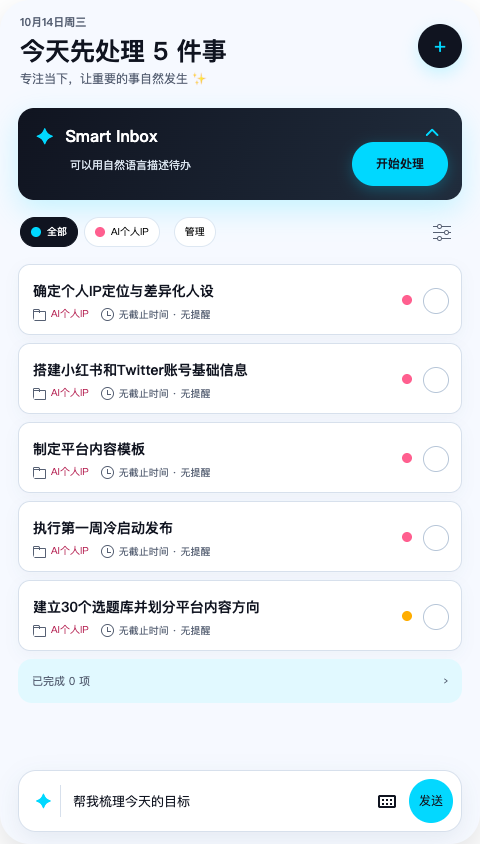
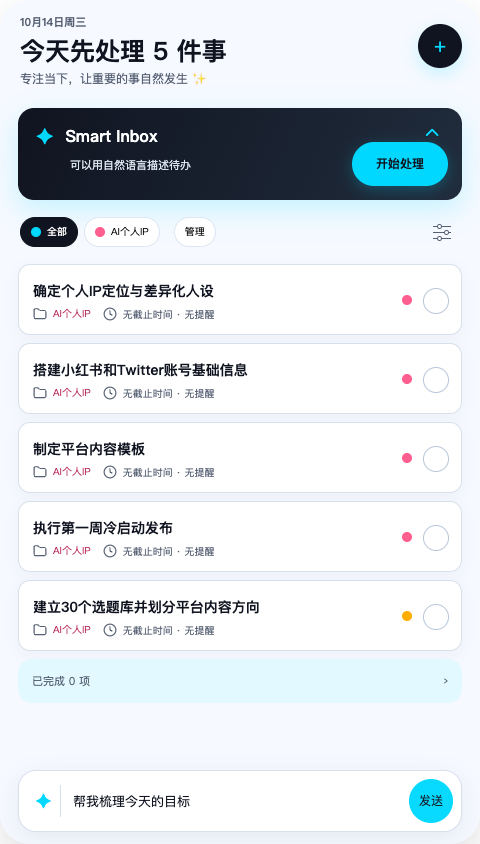
fix(ui): 优化浮层自适应布局并替换首页图标

diff --git a/tests/e2e/mobile-refresh.spec.ts b/tests/e2e/mobile-refresh.spec.ts
@@ -43,6 +43,10 @@ test('首页直接输入、计划编辑返回及正式布局', async ({ page }, 
   await taskEditor.getByRole('button', { name: '关闭待办编辑' }).click();
   await expect(input).toBeVisible();
   await expect(page.getByRole('button', { name: '打开语音输入' })).toBeVisible();
+  await page.screenshot({
+    path: 'docs/quality/screenshots/refresh-home-idle.png',
+    animations: 'disabled',
+  });
   await input.fill('帮我梳理今天的目标');
   await expect(page.getByRole('button', { name: '打开语音输入' })).toHaveCount(0);
   for (const size of [
@@ -70,17 +74,44 @@ test('首页直接输入、计划编辑返回及正式布局', async ({ page }, 
     path: 'docs/quality/screenshots/refresh-plan.png',
     animations: 'disabled',
   });
-  await plan.getByRole('button', { name: '编辑整理需求清单' }).click();
+  const close = plan.getByRole('button', { name: '关闭 Agent 草稿' });
+  await expect(close).toHaveCSS('border-top-width', '0px');
+  expect(await close.evaluate((node) => getComputedStyle(node, '::after').display)).toBe('none');
+  expect((await plan.boundingBox())!.height).toBeLessThan(600);
+  const edit = plan.getByRole('button', { name: '编辑整理需求清单' });
+  await expect(edit).toHaveCSS('align-items', 'center');
+  await edit.click();
   const editor = page.getByRole('dialog', { name: '编辑草稿', exact: true });
   await expect(editor).toBeVisible();
   await expect(editor.getByRole('button', { name: '创建', exact: false })).toHaveCount(0);
   await expect(editor.getByRole('button', { name: '删除此项' })).toHaveCount(0);
+  const gap = await editor.locator('.agentProposalEditorActions').evaluate((node) => {
+    const lastField = node.parentElement!.querySelector('.dateTimePickerField_reminderAt')!;
+    return node.getBoundingClientRect().top - lastField.getBoundingClientRect().bottom;
+  });
+  expect(gap).toBeLessThan(48);
   await editor.getByLabel('计划项标题').locator('input').fill('未保存修改');
   await editor.getByRole('button', { name: '取消编辑计划项' }).click();
   await expect(plan).not.toContainText('未保存修改');
   await plan.getByRole('button', { name: '编辑整理需求清单' }).click();
   await editor.getByLabel('计划项标题').locator('input').fill('已保存修改');
-  await page.screenshot({ path: 'docs/quality/screenshots/refresh-draft-editor.png' });
+  await page.screenshot({
+    path: 'docs/quality/screenshots/refresh-draft-editor.png',
+    animations: 'disabled',
+  });
+  for (const size of [
+    { width: 320, height: 844 },
+    { width: 480, height: 844 },
+    { width: 390, height: 560 },
+  ]) {
+    await page.setViewportSize(size);
+    const bounds = await editor.boundingBox();
+    expect(bounds!.y).toBeGreaterThanOrEqual(0);
+    expect(bounds!.y + bounds!.height).toBeLessThanOrEqual(size.height);
+    await expect(editor.getByRole('button', { name: '保存此项' })).toBeInViewport();
+    await expect(page.locator('body')).toHaveJSProperty('scrollWidth', size.width);
+  }
+  await page.setViewportSize({ width: 390, height: 844 });
   await editor.getByRole('button', { name: '保存此项' }).click();
   await expect(plan).toBeVisible();
   await expect(plan).toContainText('已保存修改');

diff --git a/apps/client/src/components/production-screens.scss b/apps/client/src/components/production-screens.scss
@@ -474,7 +474,6 @@
   background: transparent;
   resize: none;
 }
-.homeKeyboard,
 .homeComposerAction {
   display: flex;
   align-items: center;
@@ -492,48 +491,23 @@
   color: var(--ei-ink);
   background: transparent;
 }
-.homeKeyboard {
-  font-size: 22px;
-}
 .homeComposerAction {
   border-radius: 50%;
   font-size: 12px;
   background: var(--ei-action);
   animation: composerActionIn 160ms cubic-bezier(0.2, 0, 0, 1);
 }
-.homeComposerAction::after,
-.homeKeyboard::after {
+.homeComposerAction::after {
   display: none;
 }
 .homeComposer_hasText {
   border-color: var(--ei-action);
 }
 .micIcon {
-  position: relative;
-  width: 10px;
-  height: 18px;
-  border: 2px solid currentColor;
-  border-radius: 8px;
-}
-.micIcon::before {
-  position: absolute;
-  content: '';
-  width: 16px;
-  height: 14px;
-  left: -5px;
-  top: 5px;
-  border: 2px solid currentColor;
-  border-top: 0;
-  border-radius: 0 0 10px 10px;
-}
-.micIcon::after {
-  position: absolute;
-  content: '';
-  width: 2px;
-  height: 5px;
+  width: 24px;
+  height: 24px;
   background: currentColor;
-  left: 2px;
-  top: 20px;
+  mask: url('../assets/lucide/mic.svg') center / contain no-repeat;
 }
 @keyframes composerActionIn {
   from {
@@ -708,7 +682,6 @@
 .slidersIcon > :nth-child(2)::after {
   left: 11px;
 }
-.homeKeyboard,
 .homeProjectOptions {
   --ei-press-bg: transparent;
   --ei-press-fg: var(--ei-muted);
@@ -724,59 +697,22 @@
 .prioritySegment[aria-pressed='true'] {
   --ei-press-bg: var(--ei-tint);
 }
-.homeKeyboard {
-  --ei-press-fg: var(--ei-ink);
-}
-.keyboardIcon {
-  width: 18px;
-  height: 13px;
-  border: 2px solid currentColor;
-  border-radius: 2px;
-  background: radial-gradient(currentColor 1px, transparent 1px) 1px 1px / 4px 4px;
-}
 .ei-task-row__details .ei-task-row__project,
 .ei-task-row__details .ei-task-row__meta {
   position: relative;
-  padding-left: 18px;
+  padding-left: 20px;
 }
-.ei-task-row__details .ei-task-row__project::before {
-  content: '';
-  position: absolute;
-  left: 0;
-  top: 5px;
-  width: 11px;
-  height: 8px;
-  border: 1px solid var(--ei-muted);
-  border-radius: 1px;
-}
-.ei-task-row__details .ei-task-row__project::after {
-  content: '';
-  position: absolute;
-  left: 0;
-  top: 3px;
-  width: 5px;
-  height: 3px;
-  border: 1px solid var(--ei-muted);
-  border-bottom: 0;
-  border-radius: 1px 2px 0 0;
-}
+.ei-task-row__details .ei-task-row__project::before,
 .ei-task-row__details .ei-task-row__meta::before {
   content: '';
   position: absolute;
   left: 0;
-  top: 2px;
-  width: 11px;
-  height: 11px;
-  border: 1px solid var(--ei-muted);
-  border-radius: 50%;
+  top: 1px;
+  width: 14px;
+  height: 14px;
+  background: var(--ei-muted);
+  mask: url('../assets/lucide/folder.svg') center / contain no-repeat;
 }
-.ei-task-row__details .ei-task-row__meta::after {
-  content: '';
-  position: absolute;
-  left: 6px;
-  top: 5px;
-  width: 3px;
-  height: 4px;
-  border-left: 1px solid var(--ei-muted);
-  border-bottom: 1px solid var(--ei-muted);
+.ei-task-row__details .ei-task-row__meta::before {
+  mask-image: url('../assets/lucide/clock.svg');
 }

diff --git a/apps/client/src/components/agent-panels.scss b/apps/client/src/components/agent-panels.scss
@@ -378,9 +378,7 @@
 }
 
 .agentProposalSheet {
-  min-height: 500px;
-  max-height: min(92dvh, 760px);
-  overflow-y: auto;
+  max-height: min(90dvh, 760px);
 }
 
 .agentProposalSheet .ei-sheet-title {
@@ -391,15 +389,28 @@
 }
 
 .agentPanelClose {
+  --ei-press-bg: transparent;
+  --ei-press-fg: var(--ei-ink);
+  display: flex;
+  align-items: center;
+  justify-content: center;
+  padding: 0;
   position: absolute;
   top: 24px;
   right: 12px;
-  width: 44px;
-  min-width: 44px;
-  height: 44px;
+  /* prettier-ignore */
+  width: 44PX;
+  /* prettier-ignore */
+  min-width: 44PX;
+  /* prettier-ignore */
+  height: 44PX;
   margin: 0;
   border: 0;
+  color: var(--ei-ink);
   background: transparent;
+}
+.agentPanelClose::after {
+  display: none;
 }
 
 .agentProposalSummary,
@@ -506,6 +517,10 @@
 }
 
 .agentEditPlanItem {
+  display: flex;
+  align-items: center;
+  justify-content: center;
+  align-self: center;
   /* prettier-ignore */
   width: 44PX;
   /* prettier-ignore */
@@ -563,7 +578,7 @@
   display: flex;
   flex-direction: column;
   min-height: 0;
-  height: min(760px, 90dvh);
+  height: auto;
   overflow: hidden;
   padding: 26px 16px max(16px, env(safe-area-inset-bottom));
 }
@@ -571,7 +586,7 @@
   display: flex;
   flex-direction: column;
   min-height: 0;
-  flex: 1;
+  flex: 0 1 auto;
   overflow: hidden;
 }
 .agentProposalSheet .agentProposalSummary {
@@ -599,7 +614,7 @@
   line-height: 20px;
 }
 .agentProposalSheet .agentPlanList {
-  flex: 1;
+  flex: 0 1 auto;
   min-height: 0;
   overflow-y: auto;
   padding-bottom: 8px;
@@ -672,13 +687,11 @@
   width: 100%;
 }
 .agentProposalSheet_editing .agentPlanEditor {
-  flex: 1;
-  margin-bottom: 66px;
+  flex: 0 1 auto;
+  margin-bottom: 0;
 }
 .agentProposalSheet_editing .agentProposalEditorActions {
-  position: absolute;
-  right: 16px;
-  bottom: max(12px, env(safe-area-inset-bottom));
-  left: 16px;
-  width: auto;
+  position: sticky;
+  bottom: 0;
+  width: 100%;
 }

diff --git a/tests/e2e/agent-input.spec.ts b/tests/e2e/agent-input.spec.ts
@@ -6,7 +6,8 @@ test('正式首页直接输入、首字切换发送与减少动态效果', async
   await useSyntheticAccount(page, 'agent-input', testInfo);
   await page.setViewportSize({ width: 390, height: 844 });
   await page.goto('/');
-  await page.getByRole('button', { name: '打开文字输入' }).click();
+  await page.getByLabel('告诉 Agent', { exact: true }).locator('textarea').click();
+  await expect(page.getByRole('button', { name: '打开文字输入' })).toHaveCount(0);
   const input = page.getByLabel('告诉 Agent', { exact: true }).locator('textarea');
   await expect(input).toBeFocused();
   await expect(page.getByRole('dialog')).toHaveCount(0);

diff --git a/apps/client/src/components/task-home-screen.tsx b/apps/client/src/components/task-home-screen.tsx
@@ -636,14 +636,6 @@ export function TaskHomeScreen() {
           value={agentProduct.homeDraft}
           onInput={(event) => agentProduct.setHomeDraft(event.detail.value)}
         />
-        <NeutralPressButton
-          role="button"
-          aria-label="打开文字输入"
-          className="homeKeyboard"
-          onClick={agentProduct.openTextInput}
-        >
-          <View aria-hidden className="keyboardIcon" />
-        </NeutralPressButton>
         {agentProduct.homeDraft.length ? (
           <NeutralPressButton
             role="button"

diff --git a/tests/e2e/phase3-agent.spec.ts b/tests/e2e/phase3-agent.spec.ts
@@ -37,7 +37,7 @@ async function createTask(
 }
 
 async function openAgentInput(page: Page): Promise<void> {
-  await page.getByRole('button', { name: '打开文字输入' }).click();
+  await page.getByLabel('告诉 Agent', { exact: true }).locator('textarea').click();
   await expect(page.getByLabel('告诉 Agent', { exact: true }).locator('textarea')).toBeFocused();
 }
 

diff --git a/docs/quality/2026-10-14-sheet-icon-polish.md b/docs/quality/2026-10-14-sheet-icon-polish.md
@@ -1,0 +1,32 @@
+# 2026-10-14 浮层与图标细化
+
+按用户本轮三张标注图实施，局部视觉决策覆盖上一轮固定计划高度。
+
+- 计划草稿关闭按钮移除 Taro 默认 `::after` 边框，保留 44px 热区、可访问名称和焦点轮廓。
+- 列表“编辑”按钮使用 flex 垂直/水平居中，点击范围不缩小。
+- 计划列表和编辑状态均使用内容高度，最大高度受 90dvh/760px 限制；长列表内部滚动，编辑操作在滚动区底部保持可达。取消撑满高度与绝对定位导致的空白。
+- 首页移除键盘按钮；直接点击输入框编辑，首字切换发送及麦克风原有入口保持不变。
+- 文件夹、时钟、麦克风使用 Lucide 官方 SVG，并通过 CSS mask 应用产品颜色；仅本地打包三个文件，无 CDN、运行时请求或新增图标依赖。
+
+## 图标授权
+
+官方来源及固定 commit 见 [Lucide 资产说明](../../apps/client/src/assets/lucide/README.md)，完整 [LICENSE](../../apps/client/src/assets/lucide/LICENSE) 同目录保留。来源为 https://github.com/lucide-icons/lucide ，授权为 ISC，保留上游附带的 Feather MIT 声明。
+
+## 实际验证
+
+- 先运行新增断言，确认旧实现存在键盘按钮与关闭伪元素边框，两项失败与预期一致。
+- 客户端单元测试 89/89、共享 UI 单元测试 10/10 通过。
+- 客户端与共享 UI 的 lint、typecheck 通过；E2E ESLint、格式化与 diff 空白检查通过。正式 H5 构建通过。
+- 本轮选取正式输入、Agent 异常恢复、按压/焦点、页面布局与 Phase 3，共 18 项 E2E；首轮 17/18，唯一失败是测试未识别 Taro 日期控件、误把标题框作为最后控件。修正测试选择器后页面专项 1/1 通过，不将分批执行描述为一次完整全绿。
+- 布局覆盖 320×844、390×844、480×844、390×560；检查关闭边框、编辑居中、短计划高度、草稿底部间距、输入热区、无横向溢出和压缩视口保存入口。输入专项包含减少动态效果与 axe；Agent 回归覆盖编辑失败保留、重试、关闭恢复、确认幂等和三秒撤销。
+
+测试在隔离本地服务、合成账号上进行，未修改公网环境或真实用户数据。实体手机软键盘未复验。
+
+截图以最新生成的正式页为准：
+
+- [首页（麦克风状态）](screenshots/refresh-home-idle.png)
+- [首页（发送状态）](screenshots/refresh-home-390x844.png)
+- [计划列表](screenshots/refresh-plan.png)
+- [编辑草稿](screenshots/refresh-draft-editor.png)
+
+保留 T24 待审和小程序规格专项状态。

diff --git a/tasks/current.md b/tasks/current.md
@@ -1,5 +1,7 @@
 # 当前任务
 
+> 2026-10-14 二次细化：计划浮层去除关闭方框、编辑按钮居中、按内容适配高度；首页移除键盘入口，文件夹/时钟/麦克风改用 Lucide SVG。回归与授权来源见 [浮层与图标复验](../docs/quality/2026-10-14-sheet-icon-polish.md)。保留 T24 待审及小程序规格状态，不部署公网。
+
 > 2026-10-14：按用户五张参考图实施正式 H5 页面优化：登录页移除演示卡、首页直接输入与麦克风/发送切换、标题/项目时间任务卡、计划列表及两种编辑模式。验收记录见 [页面优化专项](../docs/quality/2026-10-14-mobile-page-refresh.md)。本次为本地代码调整，公网环境尚未更新；下方微信小程序规格专项及历史门禁状态保持原记录。
 
 > 2026-10-13：用户明确授权暂时忽视原 Task 推进顺序，以现有已实现产品为基础制定微信小程序适配规格，并同步办理企业资质。当前专项为 [WX-MVP-001](../specs/wechat-mini-program/spec.md)，配套[验收矩阵](../specs/wechat-mini-program/acceptance.md)。已确认保留用户名密码登录；推荐轻量小程序壳 + 完整业务 H5，待用户审阅。当前处于 SPECIFY，尚未进入 PLAN / TASKS / IMPLEMENT，未修改运行代码或部署环境。下方历史 T24 状态保留为证据，不阻挡本次专项规格工作，也不据此虚报历史门禁已通过。

diff --git a/tasks/todo.md b/tasks/todo.md
@@ -23,6 +23,8 @@
 
 ## 当前验收事项
 
+- [x] 2026-10-14 浮层与图标细化：自适应高度、关闭及编辑按钮、Lucide SVG 与移除键盘入口；见 [复验记录](../docs/quality/2026-10-14-sheet-icon-polish.md)。
+
 - [x] 2026-10-14 页面优化：完成正式 H5 四视口、首页直接发送及两种编辑模式的最终复验，记录在 [专项报告](../docs/quality/2026-10-14-mobile-page-refresh.md)。
 
 - [x] 临时 HTTP 测试环境：离线镜像构建/校验/上传、空库迁移、四服务健康、业务 CRUD、真实 Agent、数据持久化及断开 SSH 后公网复验通过；生产发布门禁保持不变。

diff --git a/apps/client/src/assets/lucide/README.md b/apps/client/src/assets/lucide/README.md
@@ -1,0 +1,5 @@
+# Lucide 图标
+
+来源：https://github.com/lucide-icons/lucide/tree/dab294f313897bacaa968b725b3259fa37c17bd1/icons
+
+下载日期：2026-10-14。保留原始 SVG（folder、clock、mic），通过 CSS mask 应用项目颜色，不引入运行依赖。完整许可见同目录 LICENSE（ISC 及 Feather 来源的 MIT 声明）。
